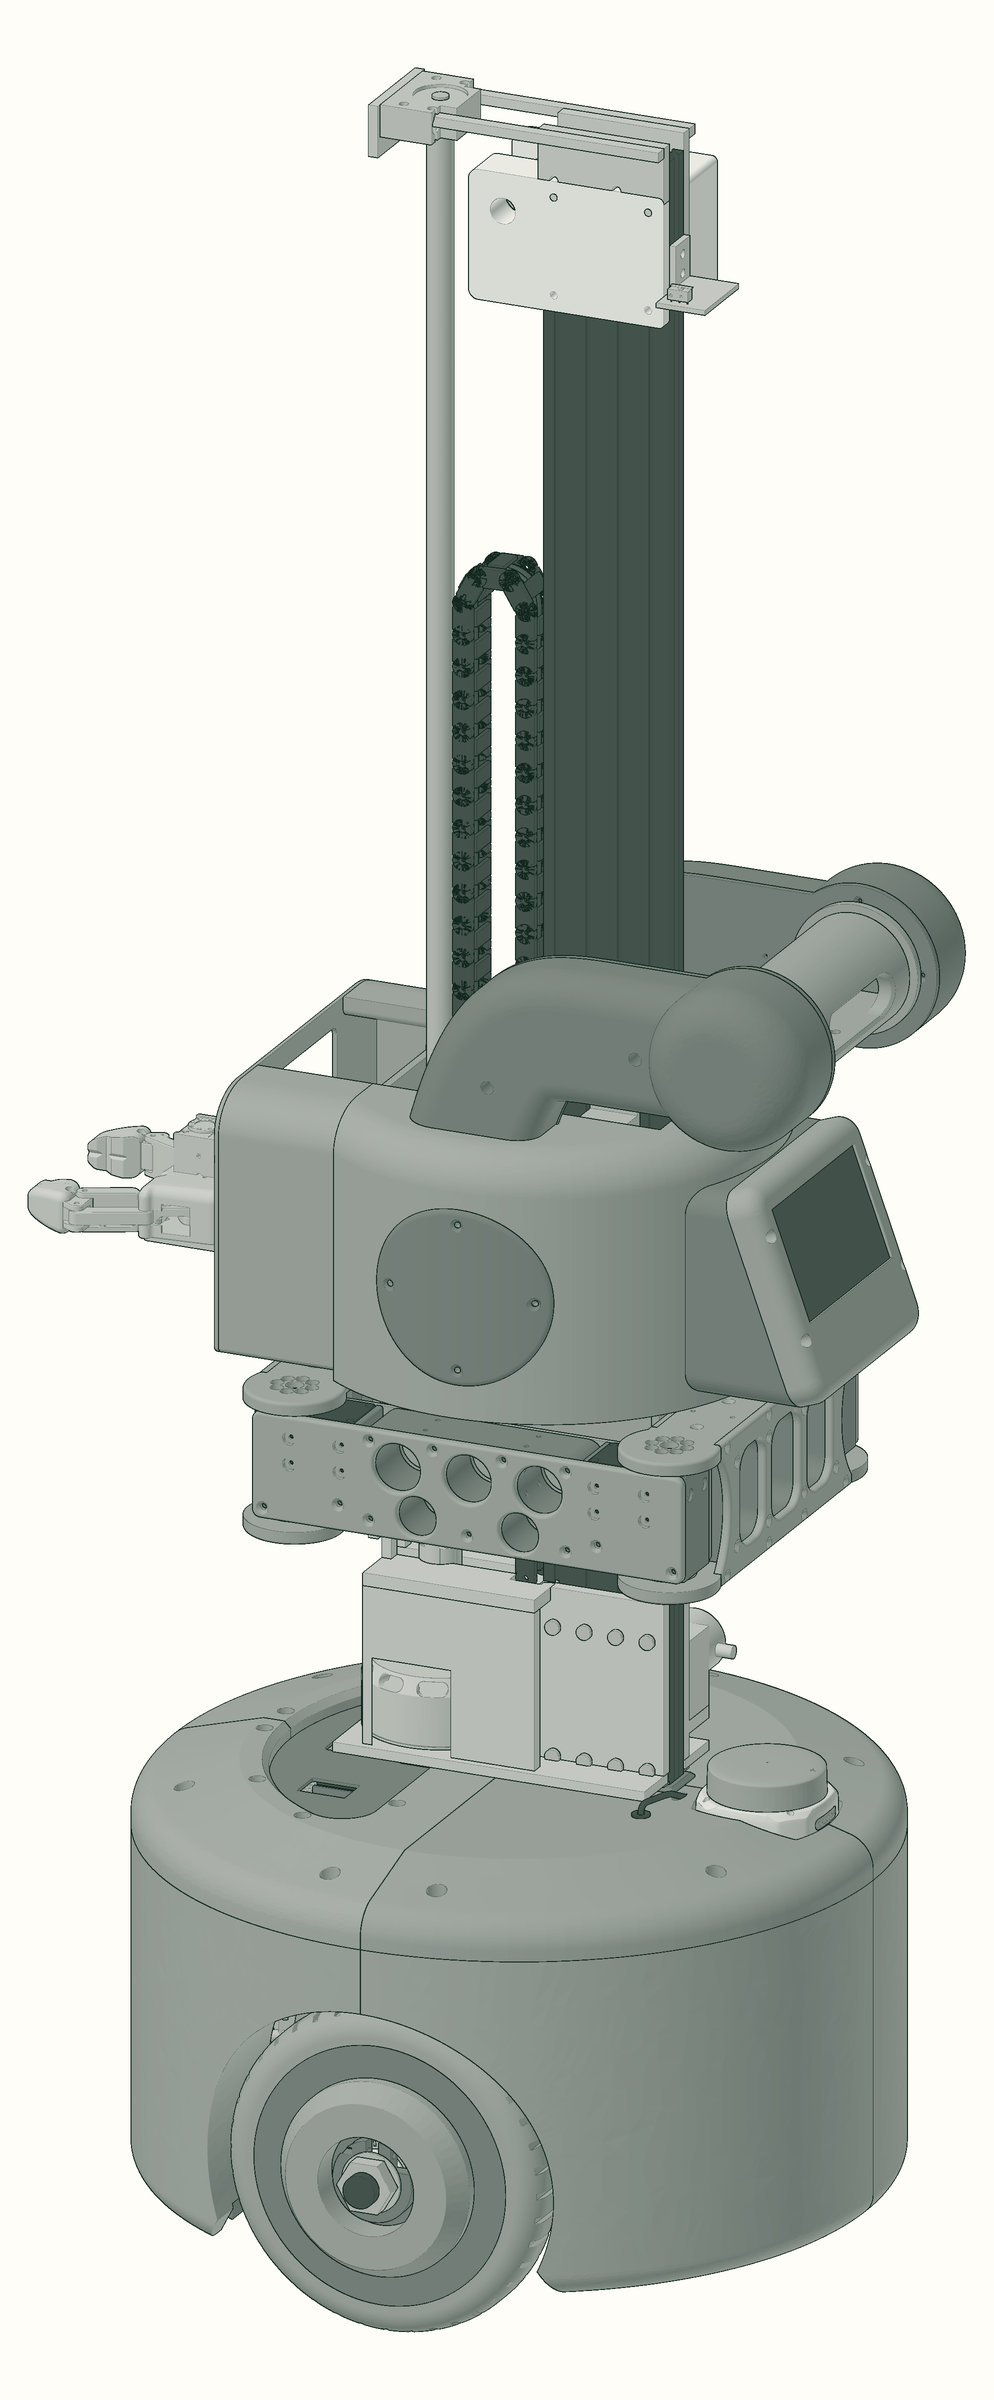
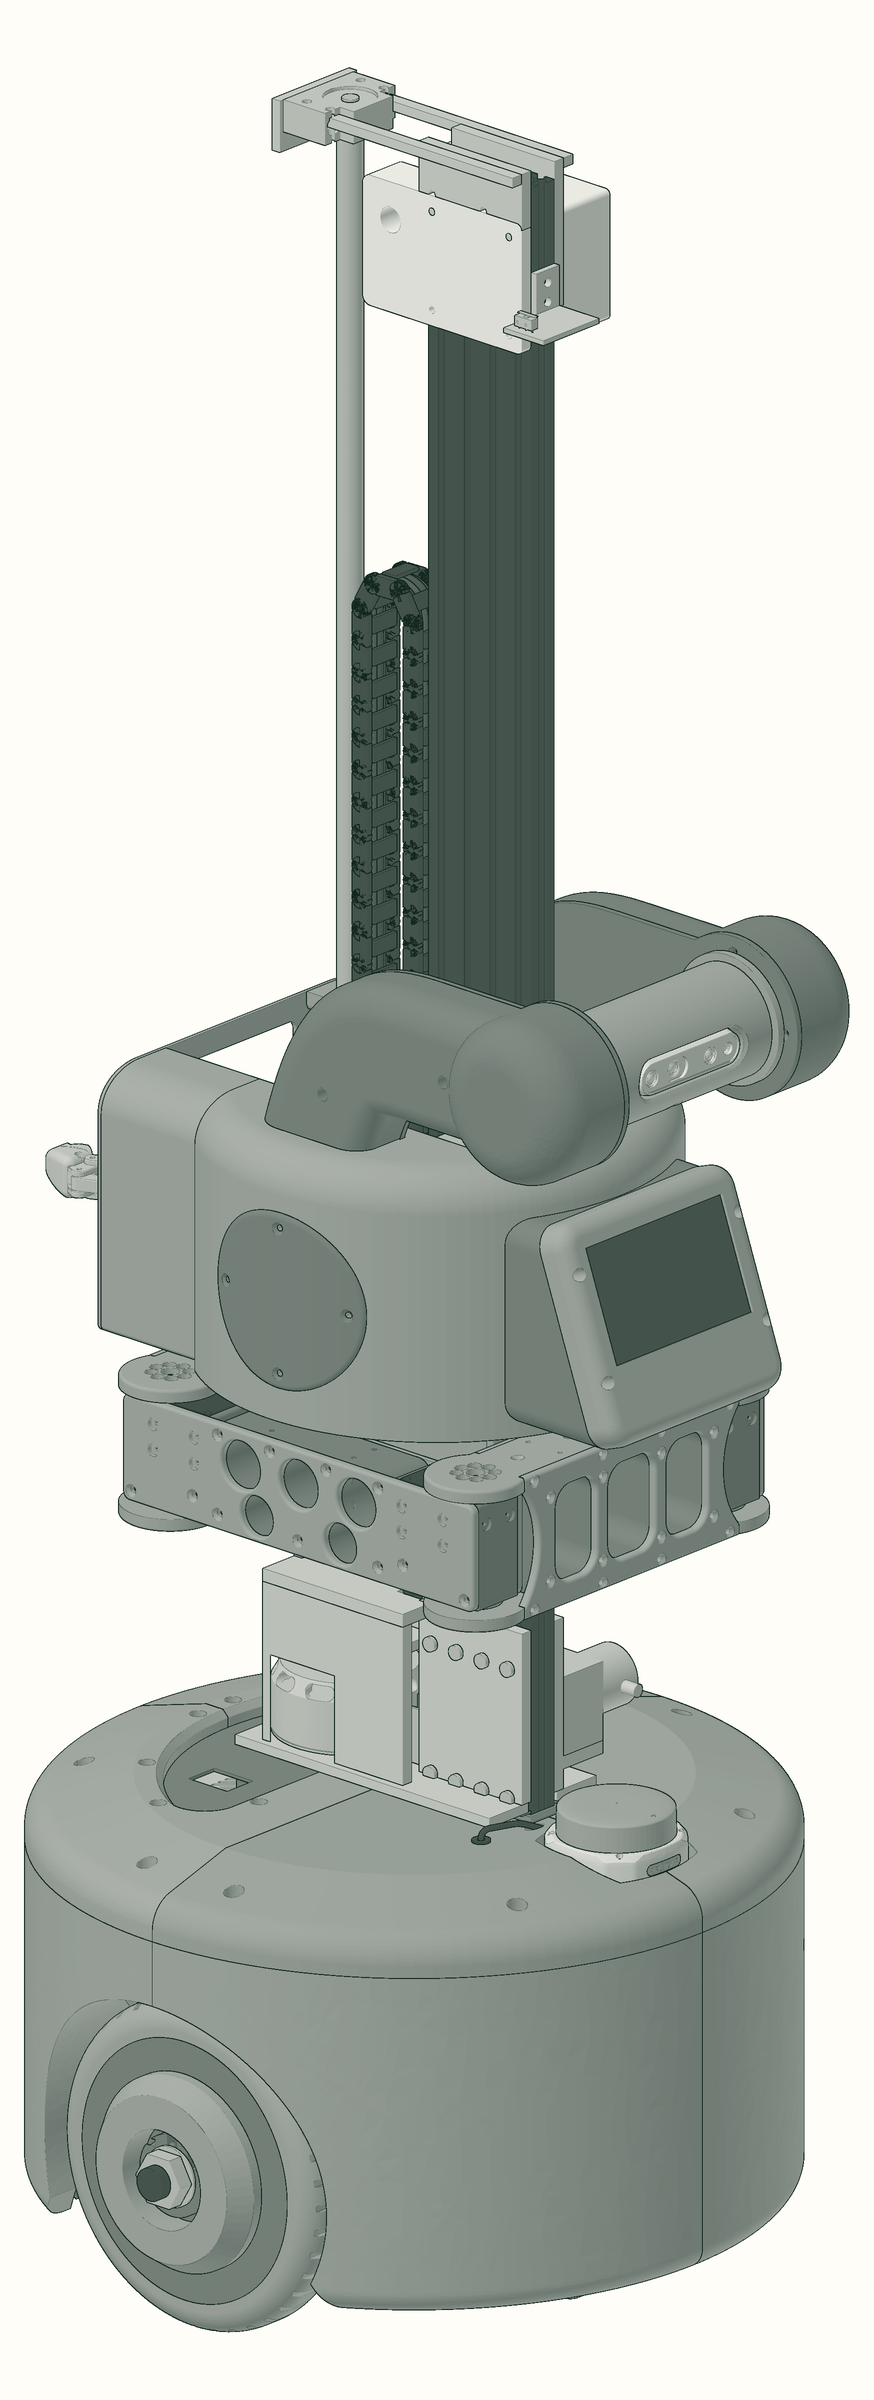
Show Wheeler's RealSense camera in the engineering drawing
The camera is stored as a mesh, and the render had skipped mesh parts.
The view is also turned so the camera faces the reader.

Claude-Session: https://claude.ai/code/session_017TP97M3iLNdMpwe1CTogMz

Changed region(s): [[0.0, 0.0312, 0.9886, 0.9688], [0.8032, 0.75, 0.9268, 0.9375]]

diff --git a/index.html b/index.html
@@ -224,8 +224,8 @@
             <img src="assets/img/wheeler-cad-360.jpg"
                  srcset="assets/img/wheeler-cad-360.jpg 360w, assets/img/wheeler-cad-720.jpg 720w"
                  sizes="(min-width: 60rem) 19rem, 60vw"
-                 width="720" height="1738" loading="lazy" decoding="async"
-                 alt="Engineering drawing of the whole Wheeler robot: a round covered base on two drive wheels, a tall vertical lift, a head with a screen, and an arm ending in a claw.">
+                 width="720" height="1977" loading="lazy" decoding="async"
+                 alt="Engineering drawing of the whole Wheeler robot: a round covered base on two drive wheels, a tall vertical lift, and a head carrying a screen, a depth camera and an arm ending in a claw.">
           </picture>
           <figcaption>Engineering model · Wheeler, in development</figcaption>
         </figure>
